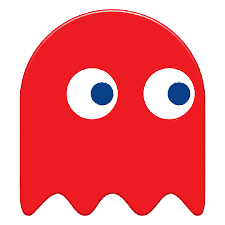
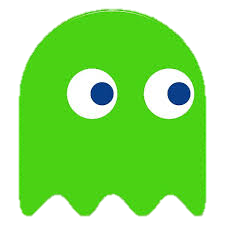
monsters color+change board wall

diff --git a/index.html b/index.html
@@ -119,7 +119,7 @@
 
             <!-- style="margin:0px 0px 0px 0px;padding: 0px 0px 0px 0px; height: 500px;" -->
             <!-- <h1>Welcome To Our Pac-Man Game!</h1> -->
-            <div class="welcomeContainer" style="margin-top: 0px; padding-bottom:150px;">
+            <div class="welcomeContainer" style="margin-top: 0px; padding-bottom: 100px;">
                 <img id="pacman_icon" style="width: 70px; margin-top: -90px;" src="images/pacman_icon_withoutBG.png">
 
                 <p class="cloud-text cloud-title"
@@ -239,51 +239,49 @@
 
 
         <section id="gameSection" name="gameSection"
-            style="display: none; height: 900px; width: 100%; padding-top: 5%;background-image: url(images/gameBack1.jpeg);  background-size:cover;background-repeat: repeat-y;">
+            style="display: none; height: 1100px; width: 100%; padding-top: 5%;background-image: url(images/gameBack1.jpeg);  background-size:cover;background-repeat: repeat-y;">
 
 
             <!--above the board-->
+            <table class="gameImportantDetails " style="width:60%;
+              color: white;margin-top: -3%;   margin-left: 12%;
+         float: left; border: 1px solid white; border-radius: 60px; background-color: black;">
+                <tr>
+                    <!-- <th>
+                    <button type="button" class="newGame-bth" style="position: center;" onclick="readyToGame()">Start<br>New
+                        Game</button>
+                </th> -->
+                    <th> <label for="lblUserName">UserName:</label></th>
+                    <th> <input id="lblUserName" type="text" disabled="disabled" /></th>
+                    <th> <label for="lblScore">Score:</label></th>
+                    <th> <input id="lblScore" type="text" disabled="disabled" /></th>
+                    <th> <label for="lblTime">Time:</label> </th>
+                    <th> <input id="lblTime" type="text" /> </th>
+                    <th>
+                        <div id="disqualification">
+                            <table style="margin-left:auto;margin-right:auto;">
+                                <tr>
+                                    <td>Life:</td>
+                                    <td><img id="pacman1" src="./images/pacman_icon_withoutBG.png" width="30"
+                                            height="30"></td>
+                                    <td><img id="pacman2" src="./images/pacman_icon_withoutBG.png" width="30"
+                                            height="30"></td>
+                                    <td><img id="pacman3" src="./images/pacman_icon_withoutBG.png" width="30"
+                                            height="30"></td>
+                                    <td><img id="pacman4" src="./images/pacman_icon_withoutBG.png" width="30"
+                                            height="30"></td>
+                                    <td><img id="pacman5" src="./images/pacman_icon_withoutBG.png" width="30"
+                                            height="30"></td>
+                                </tr>
+                            </table>
+                        </div>
+                    </th>
 
+                </tr>
+            </table>
 
             <div class="settingContainer" style="width:1700px;  margin-top: 10px;">
-                <table class="gameImportantDetails " style="width:47%;
-                color: white;margin-top: -3%;   margin-left: 8%;
-           float: left; border: 1px solid white; border-radius: 60px; background-color: black;">
-                  <tr>
-                      <!-- <th>
-                      <button type="button" class="newGame-bth" style="position: center;" onclick="readyToGame()">Start<br>New
-                          Game</button>
-                  </th> -->
-                      <th> <label for="lblUserName">UserName:</label></th>
-                      <th> <input id="lblUserName" type="text" disabled="disabled" /></th>
-                      <th> <label for="lblScore">Score:</label></th>
-                      <th> <input id="lblScore" type="text" disabled="disabled" /></th>
-                      <th> <label for="lblTime">Time:</label> </th>
-                      <th> <input id="lblTime" type="text" /> </th>
-                      <th>
-                          <div id="disqualification">
-                              <table style="margin-left:auto;margin-right:auto;">
-                                  <tr>
-                                      <td>Life:</td>
-                                      <td><img id="pacman1" src="./images/pacman_icon_withoutBG.png" width="30"
-                                              height="30"></td>
-                                      <td><img id="pacman2" src="./images/pacman_icon_withoutBG.png" width="30"
-                                              height="30"></td>
-                                      <td><img id="pacman3" src="./images/pacman_icon_withoutBG.png" width="30"
-                                              height="30"></td>
-                                      <td><img id="pacman4" src="./images/pacman_icon_withoutBG.png" width="30"
-                                              height="30"></td>
-                                      <td><img id="pacman5" src="./images/pacman_icon_withoutBG.png" width="30"
-                                              height="30"></td>
-                                      <td><img id="pacman6" src="./images/pacman_icon_withoutBG.png" width="30"
-                                              height="30" style="display: none;;"></td>
-                                  </tr>
-                              </table>
-                          </div>
-                      </th>
-  
-                  </tr>
-              </table>
+
                 <div class="board"
                     style="float: left; display: flex; margin-left: 140px; justify-content: center; margin-top: 0px;">
                     <div class="gameSetting" style="background-image: url(images/setting1.png); height: 600px;     font-size: 15px;">
@@ -330,12 +328,12 @@
                         <div style="display:none; z-index: +1;">
                             <img id="monster-img" src="./images/monster4.jpg" width="300" height="227"
                                 style="z-index: +1; position: relative;">
-                            <!-- <img id="monster2-img" src="./images/monster2.jpg" width="300" height="227"
+                            <img id="monster2-img" src="./images/monster2_withoutBg.png" width="300" height="227"
                                 style="z-index: +1; position: relative;">
-                            <img id="monster3-img" src="./images/monster3.jpg" width="300" height="227"
+                            <img id="monster3-img" src="./images/monster3_withoutBg.png" width="300" height="227"
                                 style="z-index: +1; position: relative;">
-                            <img id="monster4-img" src="./images/monster5.jpg" width="300" height="227"
-                                style="z-index: +1; position: relative;"> -->
+                            <img id="monster4-img" src="./images/monst5.png" width="300" height="227"
+                                style="z-index: +1; position: relative;">
                         </div>
                     </div>
                 </div>
@@ -365,7 +363,7 @@
 
         <section id="settingSection" style="display: none;">
             <div
-                style="background-image: url('images/pacBackground3.jpg'); height: 1100px; width: 100%;   padding-top:3%;">
+                style="background-image: url('images/pacBackground3.jpg'); height: 1100px; width: 100%;   padding-top: 10%;">
                 <div class="settingConteiner">
                     <!-- <img style=" width: 200px; margin-top: -140px;" src ="images/packman4e.jpg"> -->
                     <p class="mainHeadline" style="margin-top: 0px;margin-bottom: 0px;">Almost There...</p>

diff --git a/jvCode/app.js b/jvCode/app.js
@@ -153,36 +153,37 @@ function Start() {
 	board = new Array();
 	board = [
 		[4, 4, 4, 4, 4, 4, 4, 4, 4, 4, 4, 4, 4, 4, 4, 4, 4, 4, 4, 4, 4, 4, 4, 4, 4, 4, 4, 4, 4, 4],
-		[4, 0, 0, 0, 0, 0, 0, 0, 0, 0, 0, 0, 0, 0, 4, 4, 0, 0, 0, 0, 0, 0, 0, 0, 0, 0, 0, 0, 0, 4],
-		[4, 0, 4, 4, 0, 4, 0, 4, 0, 0, 0, 4, 4, 0, 4, 4, 0, 4, 4, 4, 4, 4, 0, 0, 0, 0, 0, 0, 0, 4],
-		[4, 0, 4, 4, 0, 4, 0, 4, 0, 0, 0, 4, 4, 0, 4, 4, 0, 4, 4, 4, 4, 4, 0, 0, 0, 0, 4, 4, 0, 4],
-		[4, 0, 4, 0, 0, 4, 0, 4, 0, 0, 0, 4, 4, 0, 4, 4, 0, 4, 4, 4, 4, 4, 0, 0, 0, 0, 4, 4, 0, 4],
-		[4, 0, 4, 0, 4, 4, 0, 4, 4, 4, 4, 4, 4, 0, 4, 4, 0, 4, 4, 4, 4, 4, 0, 0, 0, 0, 4, 4, 0, 4],
 		[4, 0, 0, 0, 0, 0, 0, 0, 0, 0, 0, 0, 0, 0, 0, 0, 0, 0, 0, 0, 0, 0, 0, 0, 0, 0, 0, 0, 0, 4],
-		[4, 0, 4, 4, 4, 4, 0, 4, 4, 0, 4, 4, 4, 4, 4, 4, 4, 4, 4, 4, 0, 4, 4, 0, 4, 4, 4, 4, 0, 4],
-		[4, 0, 4, 4, 4, 4, 0, 4, 4, 0, 4, 4, 4, 4, 4, 4, 4, 4, 4, 4, 0, 4, 4, 0, 4, 4, 4, 4, 0, 4],
-		[4, 0, 0, 0, 0, 0, 0, 4, 4, 0, 0, 0, 0, 0, 4, 4, 0, 0, 0, 0, 0, 4, 4, 0, 0, 0, 0, 0, 0, 4],
-		[4, 0, 4, 4, 4, 4, 0, 4, 4, 4, 4, 4, 4, 0, 4, 4, 0, 4, 4, 4, 4, 4, 4, 0, 4, 0, 4, 4, 0, 4],
-		[4, 0, 4, 0, 0, 4, 0, 4, 4, 4, 4, 4, 4, 0, 4, 4, 0, 4, 4, 4, 4, 4, 4, 0, 4, 0, 4, 4, 0, 4],
-		[4, 0, 4, 4, 0, 4, 0, 4, 4, 0, 0, 0, 0, 0, 0, 0, 0, 0, 0, 0, 0, 4, 4, 0, 4, 0, 4, 4, 0, 4],
-		[4, 4, 4, 4, 0, 0, 0, 4, 4, 0, 4, 4, 4, 4, 0, 0, 4, 4, 4, 4, 0, 4, 4, 0, 4, 0, 4, 4, 0, 4],
-		[4, 0, 0, 0, 0, 4, 0, 0, 0, 0, 4, 0, 0, 0, 0, 0, 0, 0, 0, 4, 0, 0, 0, 0, 4, 0, 4, 4, 0, 4],
-		[4, 0, 4, 4, 0, 4, 0, 4, 4, 0, 4, 4, 4, 4, 4, 4, 4, 4, 4, 4, 0, 4, 4, 0, 4, 0, 0, 0, 0, 4],
-		[4, 0, 4, 4, 0, 4, 0, 4, 4, 0, 0, 0, 0, 0, 0, 0, 0, 0, 0, 0, 0, 4, 4, 0, 4, 0, 4, 4, 4, 4],
-		[4, 0, 4, 4, 0, 4, 0, 4, 4, 0, 4, 4, 4, 4, 4, 4, 4, 4, 4, 4, 0, 4, 4, 0, 4, 0, 4, 4, 4, 4],
-		[4, 0, 4, 4, 0, 4, 0, 4, 4, 0, 4, 4, 4, 4, 4, 4, 4, 4, 4, 4, 0, 4, 4, 0, 4, 0, 4, 4, 4, 4],
+		[4, 0, 0, 0, 0, 0, 0, 0, 0, 0, 0, 0, 0, 0, 0, 0, 0, 0, 0, 0, 0, 0, 0, 0, 0, 0, 0, 0, 0, 4],
+		[4, 0, 0, 4, 4, 4, 0, 0, 0, 0, 4, 4, 4, 0, 0, 0, 0, 4, 4, 4, 4, 4, 0, 0, 0, 0, 4, 4, 0, 4],
+		[4, 0, 0, 4, 4, 4, 0, 0, 0, 0, 4, 4, 4, 0, 0, 0, 0, 4, 4, 4, 4, 4, 0, 0, 0, 0, 4, 4, 0, 4],
+		[4, 0, 0, 0, 0, 0, 0, 0, 0, 0, 4, 4, 4, 0, 0, 0, 0, 4, 4, 4, 4, 4, 0, 0, 0, 0, 4, 4, 0, 4],
+		[4, 0, 0, 0, 0, 0, 0, 0, 0, 0, 0, 0, 0, 0, 0, 0, 0, 0, 0, 0, 0, 0, 0, 0, 0, 0, 0, 0, 0, 4],
+		[4, 0, 0, 4, 4, 4, 0, 0, 0, 0, 0, 0, 0, 0, 4, 4, 0, 0, 0, 0, 0, 0, 0, 0, 0, 0, 0, 0, 0, 4],
+		[4, 0, 0, 4, 4, 4, 0, 0, 0, 0, 0, 0, 0, 0, 4, 4, 0, 0, 0, 0, 0, 0, 0, 0, 0, 0, 0, 0, 0, 4],
+		[4, 0, 0, 0, 0, 0, 0, 4, 4, 4, 4, 0, 0, 0, 4, 4, 0, 0, 0, 0, 0, 4, 4, 0, 0, 0, 0, 0, 0, 4],
+		[4, 0, 0, 0, 0, 0, 0, 4, 4, 4, 4, 0, 0, 0, 4, 4, 0, 0, 0, 0, 0, 4, 4, 0, 0, 0, 0, 0, 0, 4],
+		[4, 0, 0, 0, 0, 0, 0, 4, 4, 4, 4, 0, 0, 0, 0, 0, 0, 0, 0, 0, 0, 4, 4, 0, 0, 0, 4, 4, 0, 4],
+		[4, 0, 0, 0, 0, 0, 0, 0, 0, 0, 0, 0, 0, 0, 0, 0, 0, 0, 0, 0, 0, 0, 0, 0, 0, 0, 4, 4, 0, 4],
+		[4, 0, 0, 0, 0, 0, 0, 0, 0, 0, 0, 4, 4, 4, 4, 4, 4, 4, 4, 0, 0, 0, 0, 0, 0, 0, 4, 4, 0, 4],
+		[4, 0, 0, 0, 0, 0, 0, 0, 0, 0, 0, 4, 4, 4, 4, 4, 4, 4, 4, 0, 0, 0, 0, 0, 0, 0, 0, 0, 0, 4],
+		[4, 0, 4, 4, 0, 0, 0, 4, 4, 0, 0, 0, 0, 0, 0, 0, 0, 0, 0, 0, 0, 4, 4, 0, 0, 0, 0, 0, 0, 4],
+		[4, 0, 4, 4, 0, 0, 0, 4, 4, 0, 0, 0, 0, 0, 0, 0, 0, 0, 0, 0, 0, 4, 4, 0, 0, 0, 4, 4, 4, 4],
+		[4, 0, 4, 4, 0, 0, 0, 4, 4, 0, 0, 0, 0, 0, 0, 0, 0, 0, 0, 0, 0, 4, 4, 0, 0, 0, 4, 4, 4, 4],
+		[4, 0, 0, 0, 0, 0, 0, 4, 4, 0, 0, 0, 0, 0, 4, 4, 0, 0, 0, 0, 0, 4, 4, 0, 0, 0, 4, 4, 4, 4],
 		[4, 0, 0, 0, 0, 0, 0, 0, 0, 0, 0, 0, 0, 0, 4, 4, 0, 0, 0, 0, 0, 0, 0, 0, 0, 0, 0, 0, 0, 4],
-		[4, 0, 4, 4, 4, 4, 0, 4, 4, 4, 4, 4, 4, 0, 4, 4, 0, 4, 4, 4, 4, 4, 0, 0, 4, 4, 0, 0, 0, 4],
-		[4, 0, 4, 4, 4, 4, 0, 4, 4, 4, 4, 4, 4, 0, 4, 4, 0, 4, 4, 4, 4, 4, 0, 0, 4, 4, 0, 0, 0, 4],
+		[4, 0, 0, 0, 4, 4, 0, 0, 0, 0, 0, 0, 0, 0, 4, 4, 0, 0, 0, 0, 0, 0, 0, 0, 4, 4, 0, 0, 0, 4],
 		[4, 0, 0, 0, 4, 4, 0, 0, 0, 0, 0, 0, 0, 0, 0, 0, 0, 0, 0, 0, 0, 0, 0, 0, 4, 4, 0, 0, 0, 4],
-		[4, 0, 4, 0, 4, 4, 0, 4, 4, 0, 4, 4, 4, 4, 4, 4, 4, 4, 4, 0, 0, 4, 4, 0, 4, 4, 0, 4, 4, 4],
-		[4, 0, 4, 0, 4, 4, 0, 4, 4, 0, 4, 4, 4, 4, 4, 4, 4, 4, 4, 0, 0, 4, 4, 0, 4, 4, 0, 4, 4, 4],
-		[4, 0, 0, 0, 0, 0, 0, 4, 4, 0, 0, 0, 0, 0, 4, 4, 0, 0, 0, 0, 0, 4, 4, 0, 0, 0, 0, 0, 0, 4],
-		[4, 0, 0, 0, 4, 4, 4, 4, 4, 4, 4, 0, 0, 0, 4, 4, 0, 4, 4, 4, 4, 4, 4, 4, 4, 4, 4, 0, 0, 4],
-		[4, 0, 0, 0, 4, 4, 4, 4, 4, 4, 4, 0, 0, 0, 4, 4, 0, 4, 4, 4, 4, 4, 4, 4, 4, 4, 4, 0, 0, 4],
-		[4, 0, 0, 0, 0, 0, 0, 0, 0, 0, 0, 0, 0, 0, 4, 4, 0, 0, 0, 0, 0, 0, 0, 0, 0, 0, 0, 0, 0, 4],
+		[4, 0, 0, 0, 4, 4, 0, 0, 0, 0, 0, 0, 0, 0, 0, 0, 0, 0, 0, 0, 0, 0, 0, 0, 4, 4, 0, 0, 0, 4],
+		[4, 0, 0, 0, 4, 4, 0, 0, 0, 0, 0, 0, 0, 0, 0, 0, 0, 0, 0, 0, 0, 4, 4, 0, 4, 4, 0, 0, 0, 4],
+		[4, 0, 0, 0, 0, 0, 0, 0, 0, 0, 0, 0, 0, 0, 4, 4, 0, 0, 0, 0, 0, 4, 4, 0, 4, 4, 0, 0, 0, 4],
+		[4, 0, 0, 0, 0, 0, 0, 0, 0, 0, 0, 0, 0, 0, 4, 4, 0, 0, 0, 0, 0, 4, 4, 0, 0, 0, 0, 0, 0, 4],
+		[4, 0, 0, 0, 0, 4, 4, 4, 4, 4, 4, 0, 0, 0, 4, 4, 0, 0, 0, 0, 0, 4, 4, 0, 0, 0, 0, 0, 0, 4],
+		[4, 0, 0, 0, 0, 4, 4, 4, 4, 4, 4, 0, 0, 0, 4, 4, 0, 0, 0, 0, 0, 0, 0, 0, 0, 0, 0, 0, 0, 4],
+		[4, 0, 0, 0, 0, 4, 4, 4, 4, 4, 4, 0, 0, 0, 4, 4, 0, 0, 0, 0, 0, 0, 0, 0, 0, 0, 0, 0, 0, 4],
 		[4, 4, 4, 4, 4, 4, 4, 4, 4, 4, 4, 4, 4, 4, 4, 4, 4, 4, 4, 4, 4, 4, 4, 4, 4, 4, 4, 4, 4, 4],
 	];
+	
 	looser = false;
 	better = false;
 	slowMonst=false;
@@ -497,18 +498,18 @@ function CandyMove() {
 }
 
 function setMonstersInterval() {
-	intervalMonster1 = setInterval("UpdateMonsterPosition(monster1)", 750);
+	intervalMonster1 = setInterval("UpdateMonsterPosition(monster1)", 350);
 
 	if (numberOfMonsters >= 2) {
-		intervalMonster2 = setInterval("UpdateMonsterPosition(monster2)", 750);
+		intervalMonster2 = setInterval("UpdateMonsterPosition(monster2)", 350);
 	}
 
 	if (numberOfMonsters >= 3) {
-		intervalMonster3 = setInterval("UpdateMonsterPosition(monster3)", 250);
+		intervalMonster3 = setInterval("UpdateMonsterPosition(monster3)", 350);
 	}
 
 	if (numberOfMonsters == 4) {
-		intervalMonster4 = setInterval("UpdateMonsterPosition(monster4)", 250);
+		intervalMonster4 = setInterval("UpdateMonsterPosition(monster4)", 350);
 	}
 }
 
@@ -738,11 +739,13 @@ function drawMonsters() {
 	/******for slow motion:****** */
 	var blueImage= new Image();
 	blueImage.src = "images/blueMonst.png";
-	var image = document.getElementById("monster-img");
+
+	
 	if(slowMonst){
 		context.drawImage(blueImage, monster1.x * cellWidth, monster1.y * cellHeight, cellWidth, cellHeight);
 	}
 	else{
+		var image = document.getElementById("monster-img");
 		context.drawImage(image, monster1.x * cellWidth, monster1.y * cellHeight, cellWidth, cellHeight);
 
 	}
@@ -751,6 +754,7 @@ function drawMonsters() {
 			context.drawImage(blueImage, monster2.x * cellWidth, monster2.y * cellHeight, cellWidth, cellHeight);
 		}
 		else{
+		var image = document.getElementById("monster2-img");
 		context.drawImage(image, monster2.x * cellWidth, monster2.y * cellHeight, cellWidth, cellHeight);
 		}
 	}
@@ -760,6 +764,7 @@ function drawMonsters() {
 		context.drawImage(blueImage, monster3.x * cellWidth, monster3.y * cellHeight, cellWidth, cellHeight);
 		}
 		else{
+			var image = document.getElementById("monster3-img");
 			context.drawImage(image, monster3.x * cellWidth, monster3.y * cellHeight, cellWidth, cellHeight);
 
 		}
@@ -771,6 +776,7 @@ function drawMonsters() {
 		context.drawImage(blueImage, monster4.x * cellWidth, monster4.y * cellHeight, cellWidth, cellHeight);
 		}
 		else{
+			var image = document.getElementById("monster4-img");
 			context.drawImage(image, monster4.x * cellWidth, monster4.y * cellHeight, cellWidth, cellHeight);
 
 		}
